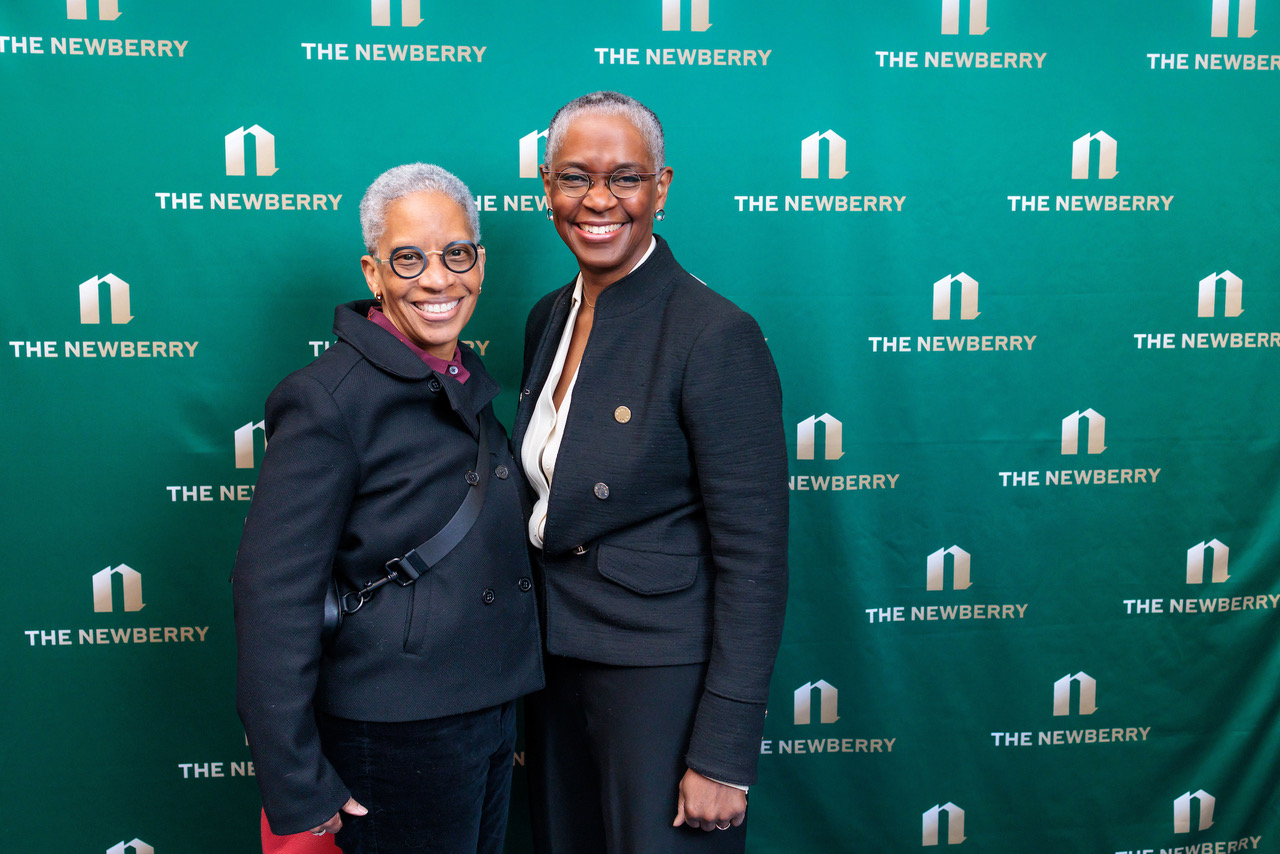
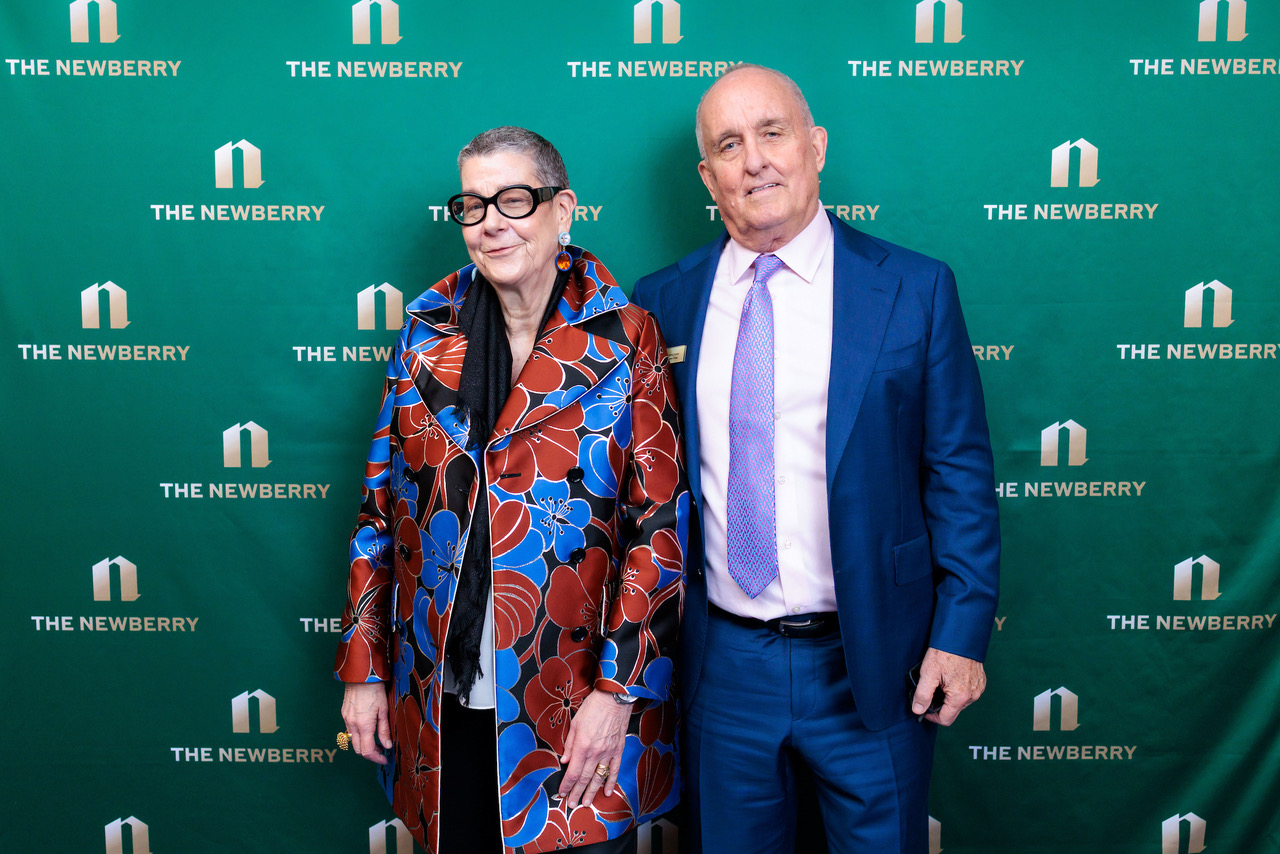
Final Newberry and Anti-Cruelty fixes before publish
- Newberry: replace 3 duplicate photos with correct Abby O'Neil + Carroll Joynes and Penny + Bill Obenshain photos
- Anti-Cruelty: add optional BARK walk photo at end of article

diff --git a/editions/2026-05-10/newberry-awards/index.html b/editions/2026-05-10/newberry-awards/index.html
@@ -170,16 +170,13 @@
       </figure>
 
       <figure>
-        <img src="photo-14.jpg" alt="Abby O'Neil and Carroll Joynes" style="width:100%;height:auto;">
-        <figcaption>Abby O&#8217;Neil and Carroll Joynes</figcaption>
+        <img src="photo-14.jpg" alt="Abby O'Neil and Newberry Trustee Carroll Joynes" style="width:100%;height:auto;">
+        <figcaption>Abby O&#8217;Neil and Newberry Trustee Carroll Joynes</figcaption>
       </figure>
 
       <figure>
-        <img src="photo-15.jpg" style="width:100%;height:auto;">
-      </figure>
-
-      <figure>
-        <img src="photo-16.jpg" style="width:100%;height:auto;">
+        <img src="photo-15.jpg" alt="Penny and Bill Obenshain" style="width:100%;height:auto;">
+        <figcaption>Penny and Bill Obenshain</figcaption>
       </figure>
 
     </div>

diff --git a/editions/2026-05-10/anti-cruelty-bonded-pair/index.html b/editions/2026-05-10/anti-cruelty-bonded-pair/index.html
@@ -149,6 +149,10 @@
 
         <p>For more information about Anti-Cruelty Chicago visit: <a href="https://anti-cruelty.org" target="_blank" style="color:#b51c20;">anti-cruelty.org</a></p>
 
+        <figure>
+          <img src="photo-bark.jpg" alt="BARK: Walk for Chicago's Animals" style="width:100%;height:auto;">
+        </figure>
+
       </div><!-- end article-body -->
 
       <div style="margin: 32px 0 24px; text-align: center; font-family: 'Lato', sans-serif; font-size: 13px; color: #999; text-transform: uppercase; letter-spacing: 0.08em;">
